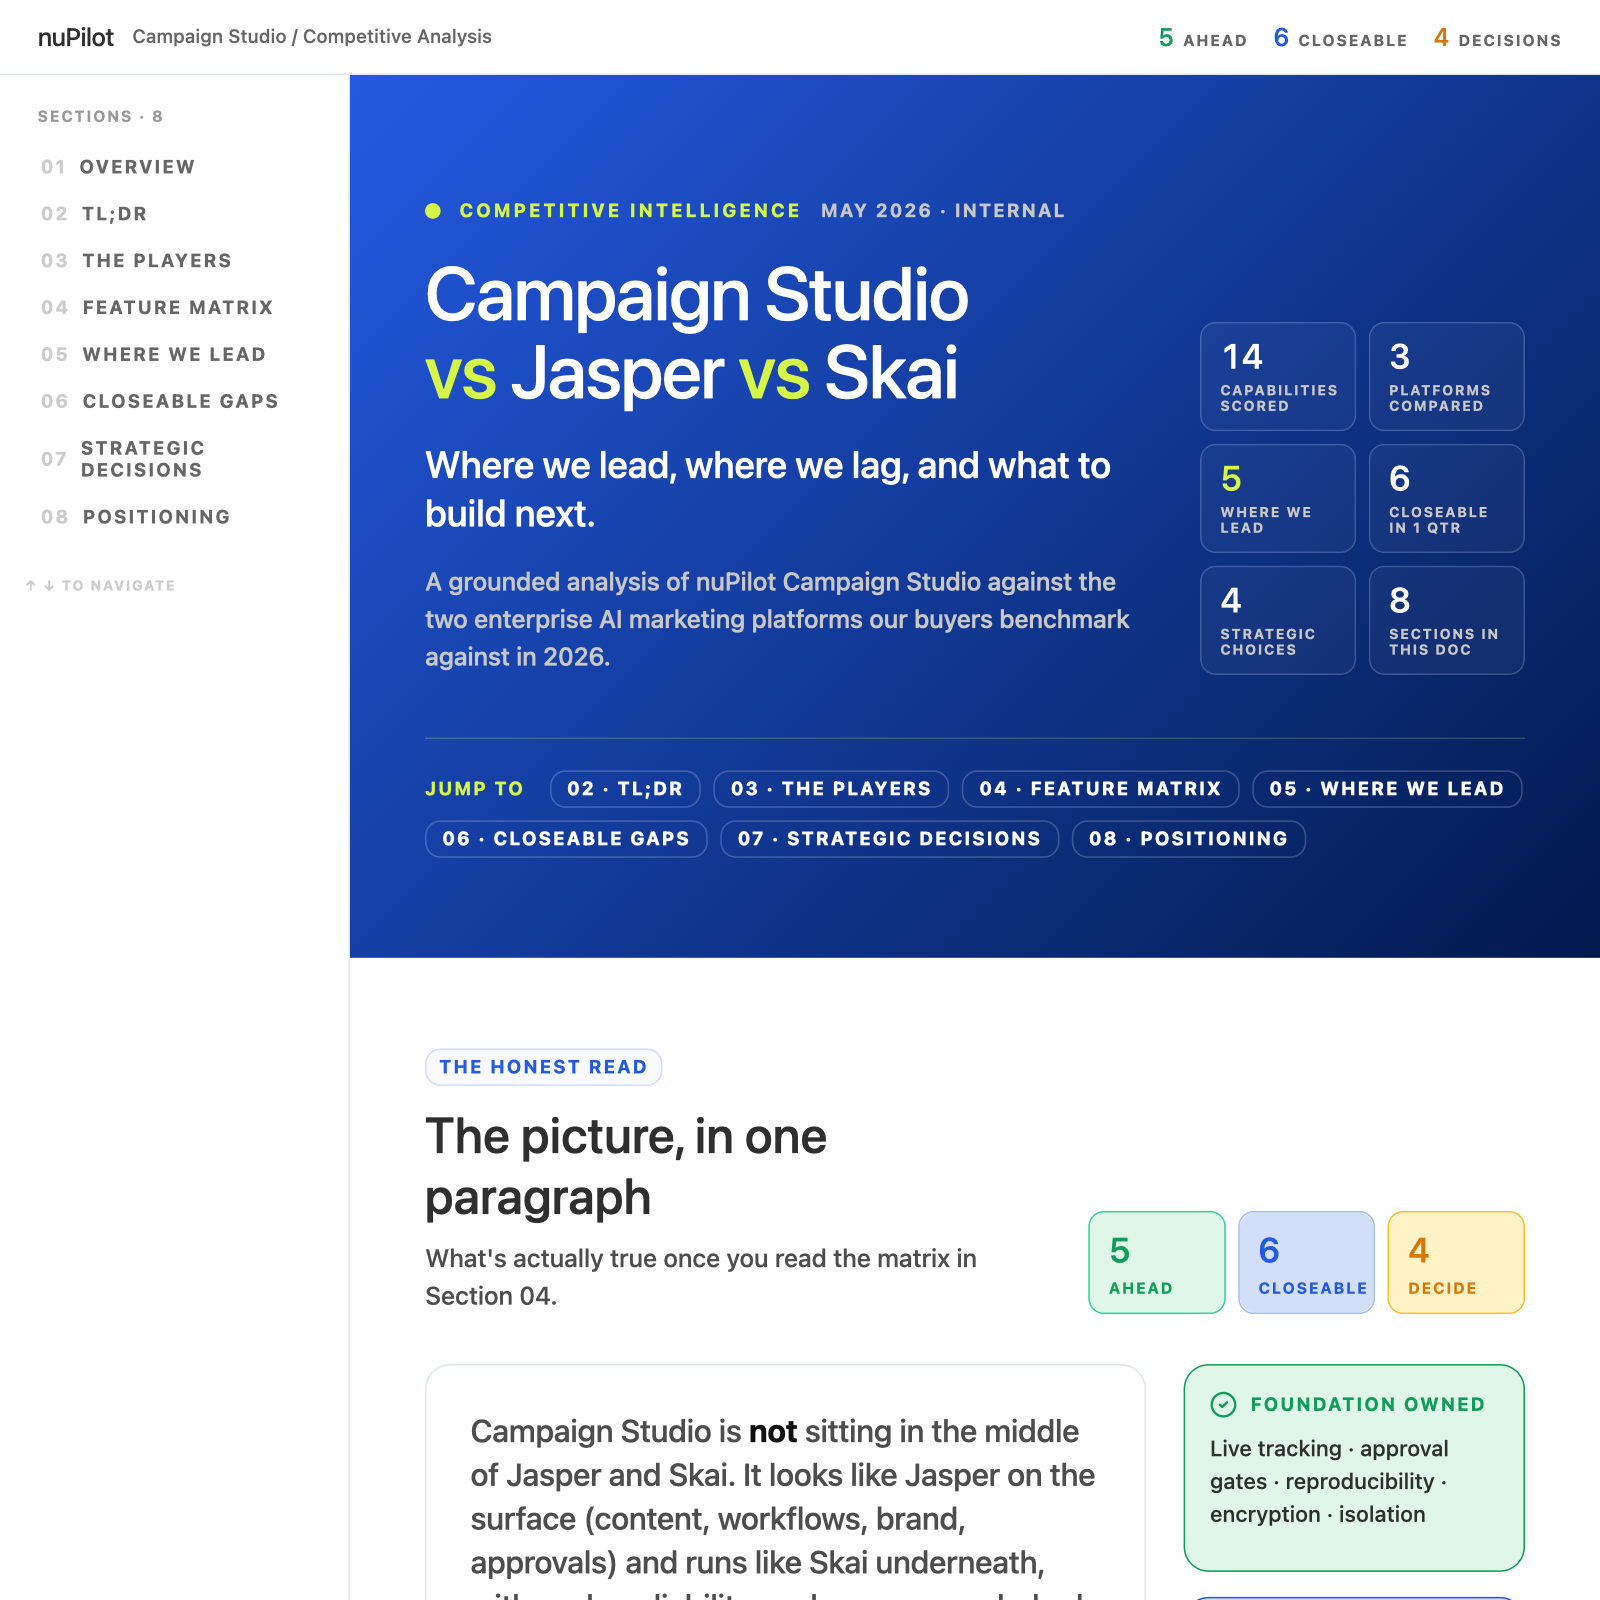
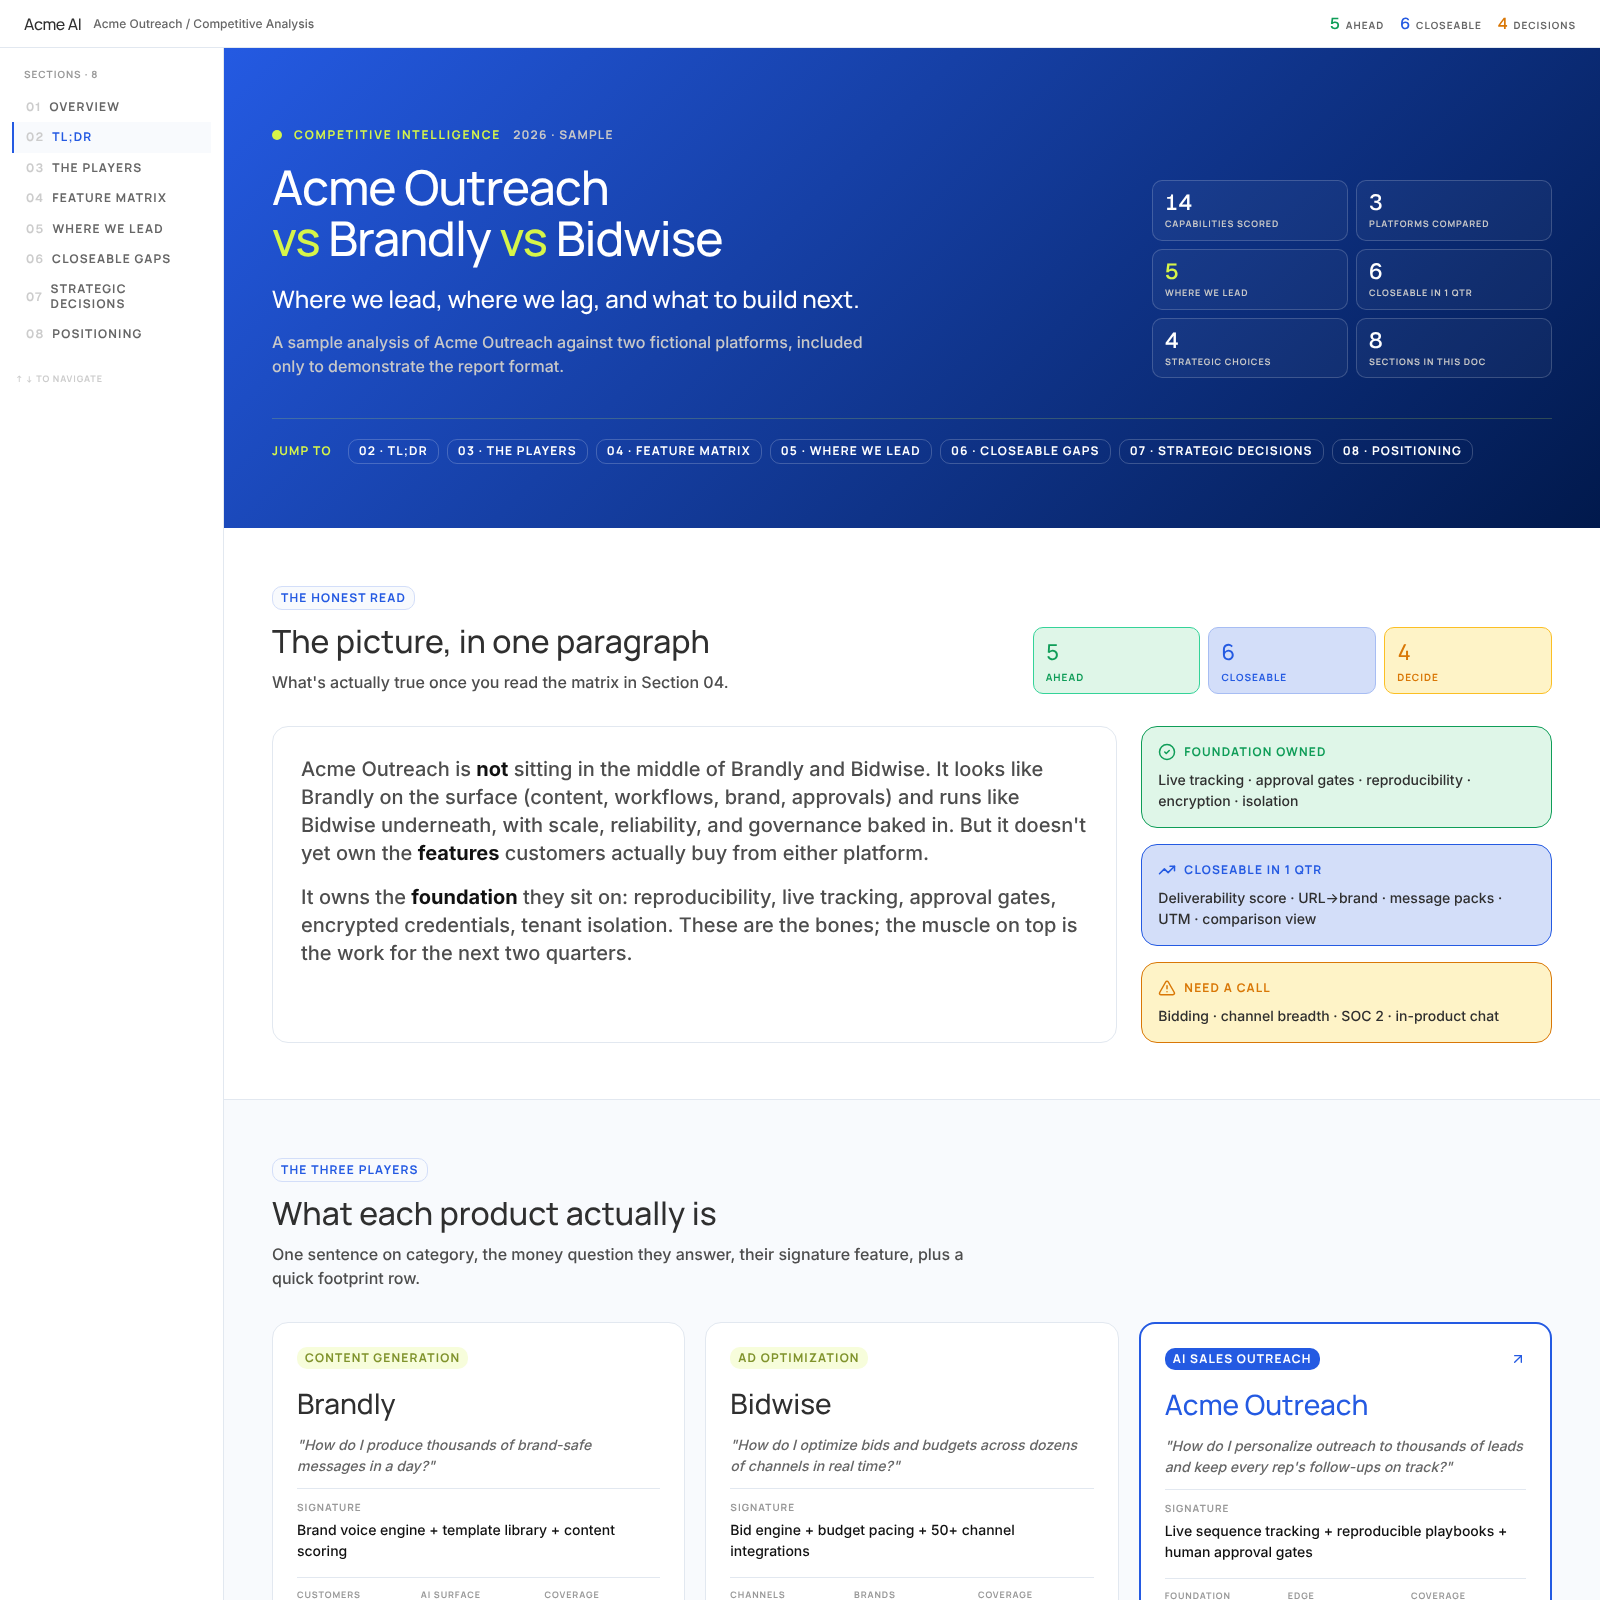
Replace hero image with the fictional sample report
The README's hero image was a screenshot of an earlier internal report. Render
it from docs/example-report.html, the fictional Acme sample, instead. Use a
placeholder author name in the content spec example.

Claude-Session: https://claude.ai/code/session_01Caikg3eBK68WN128Bs8aEC

diff --git a/references/content-spec.md b/references/content-spec.md
@@ -23,7 +23,7 @@ you can omit sections you don't have. Fields marked HTML-ok may contain inline t
   "meta": {
     "org": "Acme AI",                 // brand: header top-left + footer
     "date_label": "May 2026 · Internal",
-    "author": "Sneha Gupta",          // footer "prepared by"
+    "author": "Jane Analyst",         // footer "prepared by"
     "analyst_note": "what wasn't verifiable, recency of research"   // optional, for your record
   },
 
